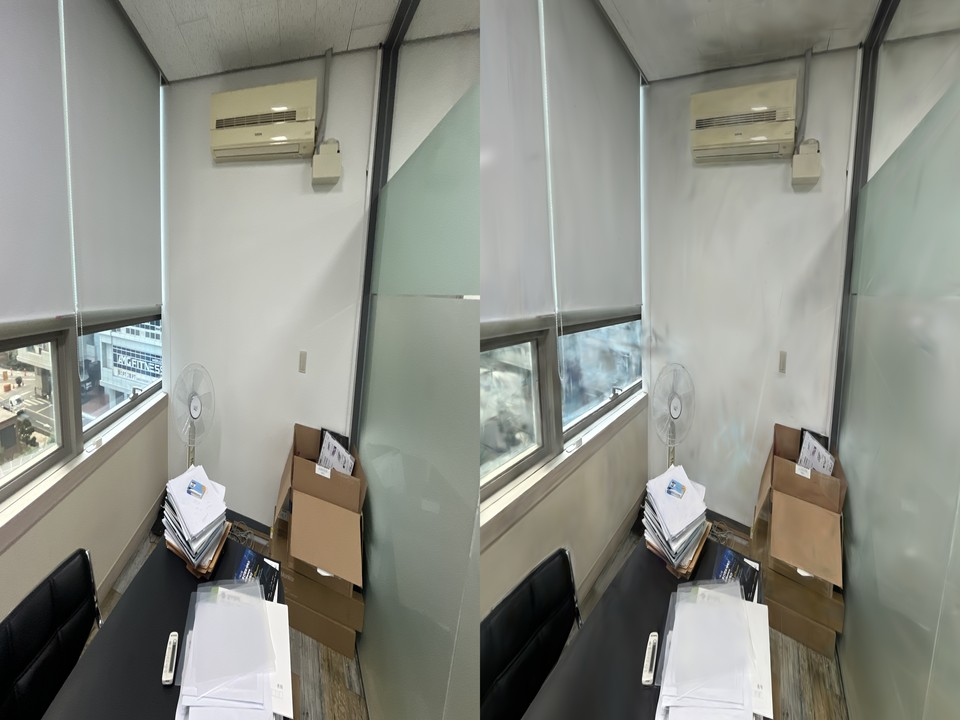
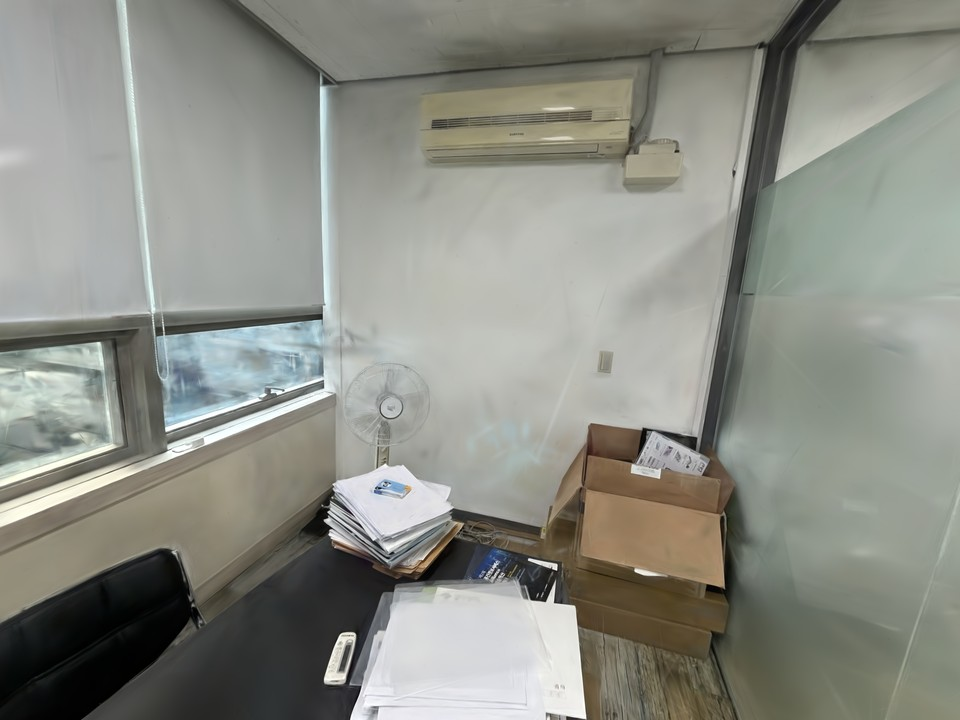
Fix comparison images: use render-only crops, separate PSNR/size rows
Previous images were GT+render side-by-side composites.
Now each column shows a single image: GT, Original, SH0+f16, SH0+f16+DS50%.

diff --git a/README.md b/README.md
@@ -27,14 +27,16 @@ LightGlue (SfM) → Lightning + GSplatV1Renderer (Training) → Post-Processing 
 | Ground Truth | Original | SH0+f16 | SH0+f16+DS50% |
 |:---:|:---:|:---:|:---:|
 | ![GT](assets/meetingroom_gt.jpg) | ![Original](assets/meetingroom_original.jpg) | ![SH0+f16](assets/meetingroom_sh0_f16.jpg) | ![DS50%](assets/meetingroom_sh0_f16_ds50.jpg) |
-| — | 28.25 dB / 271 MB | 23.27 dB / 61 MB | 21.52 dB / 30 MB |
+| PSNR | 28.25 dB | 23.27 dB | 21.52 dB |
+| Size | 271 MB | 61 MB (22%) | 30 MB (11%) |
 
 #### Office (416 images, iPhone 13 mini)
 
 | Ground Truth | Original | SH0+f16 | SH0+f16+DS50% |
 |:---:|:---:|:---:|:---:|
 | ![GT](assets/office_gt.jpg) | ![Original](assets/office_original.jpg) | ![SH0+f16](assets/office_sh0_f16.jpg) | ![DS50%](assets/office_sh0_f16_ds50.jpg) |
-| — | 26.07 dB / 217 MB | 23.82 dB / 45 MB | 21.79 dB / 22 MB |
+| PSNR | 26.07 dB | 23.82 dB | 21.79 dB |
+| Size | 217 MB | 45 MB (21%) | 22 MB (10%) |
 
 ## Benchmark Results
 
